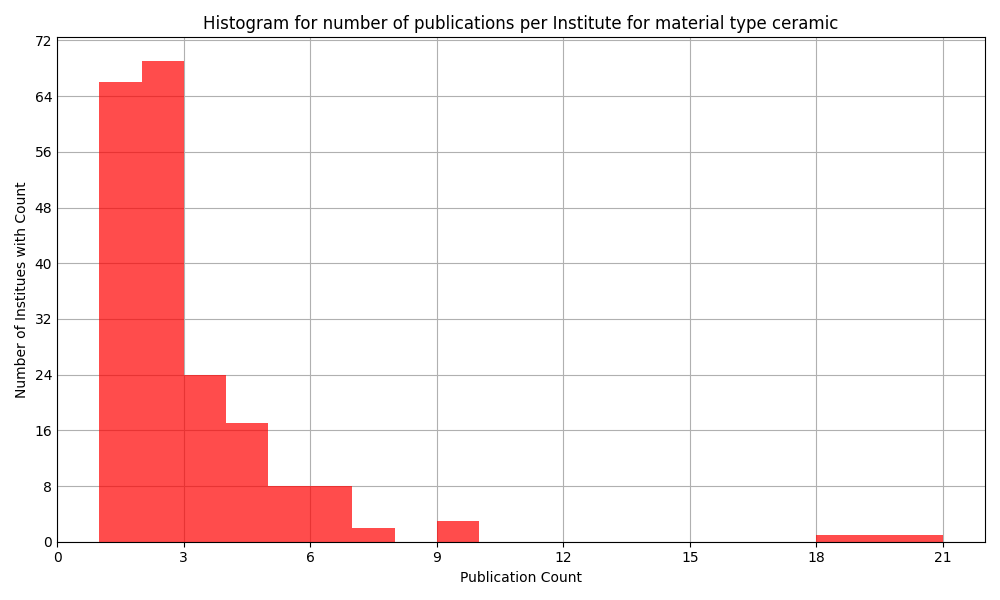
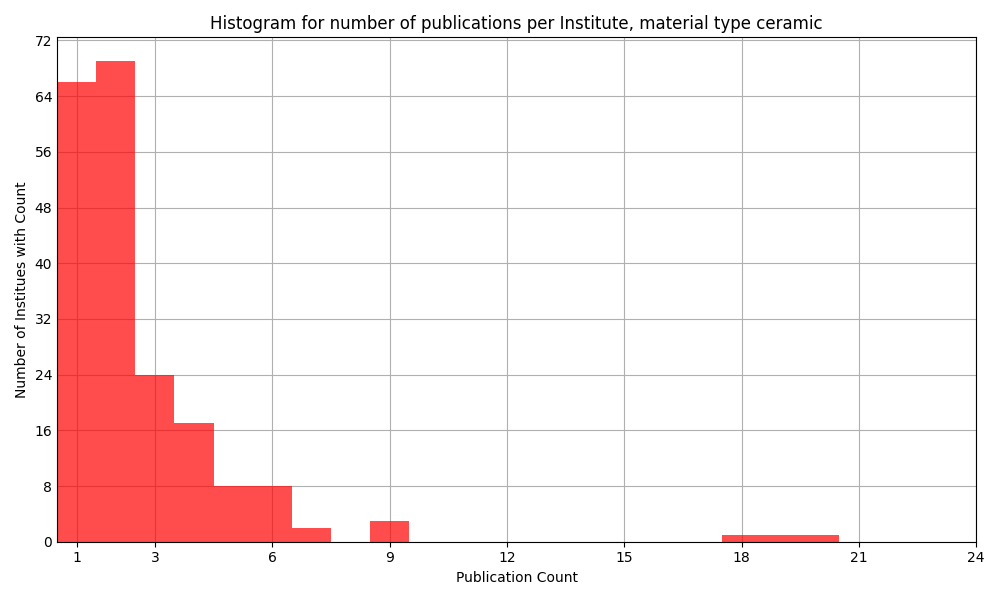
plot adjustments

diff --git a/graph_new.py b/graph_new.py
@@ -6,6 +6,7 @@ from matplotlib.ticker import MultipleLocator
 from matplotlib.lines import Line2D
 import numpy as np
 from matplotlib.ticker import MaxNLocator
+from butterflychart import butterfly_chart
 # Load the data files
 dirname = os.path.dirname(__file__)
 
@@ -42,7 +43,7 @@ for materialstring in materialstrings:
     countries_plot_path = os.path.join(dirname, r'graphs/countries_' + materialstring +'')  # Replace with your local file path
     countries_count_per_population_plot_path = os.path.join(dirname, r'graphs/countries_count_' + materialstring +'_per_population')  # Replace with your local file path
     countries_justnumbers_plot_path = os.path.join(dirname, r'graphs/countries_' + materialstring +'_justnumbers')  # Replace with your local file path
-
+    butterfly_plot_path = os.path.join(dirname, r'graphs/butterfly_' + materialstring) 
 
     # Load the data into DataFrames
     data_affiliations = pd.read_excel(affiliations_file)
@@ -99,7 +100,6 @@ for materialstring in materialstrings:
             populations_filtered.append(int(str(list(data_populations[data_populations["Name"] == name_lookup_dict[country_name]]["Total Population"])[0]).replace('.','')))
         else:
             populations_filtered.append(0)
-            # print(f"Warning: Population data for {country_name} not available, set to 0")
 
     populations_filtered_scalefactor = [1/pop  if pop != 0 else 0 for pop in populations_filtered]
 
@@ -124,9 +124,8 @@ for materialstring in materialstrings:
         available_space_percent = count/max(data_affiliations_filtered['Count']) 
         x = bar.get_x() + 0.01*max(data_affiliations_filtered['Count']) + count
         ax.text(x, y, label, va='center', ha='left', color='Black', fontsize=8, weight='bold', backgroundcolor='none')
-    plt.tight_layout()
- 
     plt.xlim(0, round_up_to_next_50(max(data_affiliations_filtered['Count'])*1.4))
+    plt.tight_layout()
     plt.savefig(affiliations_plot_path)
     plt.close()
     
@@ -151,33 +150,25 @@ for materialstring in materialstrings:
     # Plot affiliations histogram chart just numbers
     #-------------------------------
     plt.figure(figsize=(10, 6))
-    # plt.plot(data_affiliations['Count'], data_affiliations['Affiliations'])
     bins = range(min(data_affiliations['Count']), max(data_affiliations['Count']) + 1, 1)
-    # bins= []
-    # for x in range(10,0,-1):
-    #     bins.append(data_affiliations['Count'][int(len(data_affiliations['Count'])*x/10) - 1])
-    #     unique_bins = set(bins)       # O(n) complexity
-    #     sorted_bins = sorted(unique_bins)
     plt.hist(data_affiliations['Count'], bins=bins, edgecolor='none', color=materialstring_to_color[materialstring], alpha=0.7)
-    # hist, bin_edges, _ = plt.hist(data_affiliations['Count'], bins=bins, edgecolor='black', color='skyblue', alpha=0.7)
-    plt.title(f'Histogram for number of publications per Institute for material type {materialstring}')
+    plt.title(f'Histogram for number of publications per Institute, material type {materialstring}')
     plt.ylabel('Number of Institues with Count')
     plt.xlabel('Publication Count')
-    # bin_midpoints = (bin_edges[:-1] + bin_edges[1:]) / 2
-    # Set x-axis ticks to the bin midpoints
-    # plt.xticks(bin_midpoints, [f'{int(bin_edges[i])}-{int(bin_edges[i+1])}' for i in range(len(bin_edges)-1)])
-
-    # plt.minorticks_on()
     ax = plt.gca()
     ax.grid(which='major', axis='both', linestyle='-')
-    # ax.set_yticklabels([])
     ax.set_axisbelow(True)
     ax.yaxis.set_major_locator(MaxNLocator(integer=True))
     ax.xaxis.set_major_locator(MaxNLocator(integer=True))
     ax.tick_params(axis='y', which='major', color='black', width=1.5, length=0)
     ax.tick_params(axis='y', which='minor', color='black', width=1.5, length=0)
-    # plt.axvline(x=len(data_affiliations_filtered), color='r', linestyle='-')
-    # plt.axvline(x=len(data_affiliations) -len(data_affiliations_filtered_low), color='r', linestyle='-')
+    current_ticks = ax.get_xticks()
+    current_labels = [tick.get_text() for tick in ax.get_xticklabels()]  # Retrieve the current labels
+
+    # Adjust tick positions by adding 0.5
+    new_ticks = [tick + 0.5 for tick in current_ticks]
+    plt.xticks([1.5] + new_ticks, ["1"] + current_labels)
+    ax.set_xlim(1, ax.get_xlim()[1])
     plt.tight_layout()
     plt.savefig(affiliations_histogram_plot_path)
     plt.close()
@@ -194,9 +185,6 @@ for materialstring in materialstrings:
     plt.tight_layout()
     ax = plt.gca()
     ax.grid(which='major', axis='x', linestyle='-')
-    # ax2 = ax.twiny()
-    # ax2.plot(populations_filtered, data_countries_filtered['Countries/Regions'], color ="red")
-    # ax2.set_xlim(ax.get_xlim())
     ax.set_axisbelow(True)
     plt.savefig(countries_plot_path)
     plt.close()
@@ -212,13 +200,28 @@ for materialstring in materialstrings:
     plt.title(f'Countries and Their Populations')
     plt.ylabel('Countries')
     plt.xlabel('Population')
-    plt.tight_layout()
     ax = plt.gca()
     ax.grid(which='major', axis='x', linestyle='-')
     ax.set_axisbelow(True)
     plt.savefig(countries_population_plot_path)
     plt.close()
 
+    #-------------------------------
+    # Plot butterflychart
+    #-------------------------------
+
+    data = pd.DataFrame({
+    'Population': populations_filtered,
+    'Publications devided by Population': scaled_counts
+    }, index=data_countries_filtered['Countries/Regions'])
+    butterfly_chart(
+    data,
+    figsize=(20, 6),
+    wspace=0.25,
+    title=f'Countries Publication Count per Population (Excluding Counts {cutoffs_dict_upper[materialstring]} and Below)'
+    )
+    plt.savefig(butterfly_plot_path)
+    plt.close()
     #-------------------------------
     # Plot countries/regions scaled by population bar chart
     #-------------------------------
@@ -413,6 +416,13 @@ ax.yaxis.set_major_locator(MaxNLocator(integer=True))
 ax.xaxis.set_major_locator(MaxNLocator(integer=True))
 ax.tick_params(axis='y', which='major', color='black', width=1.5, length=0)
 ax.tick_params(axis='y', which='minor', color='black', width=1.5, length=0)
+current_ticks = ax.get_xticks()
+current_labels = [tick.get_text() for tick in ax.get_xticklabels()]  # Retrieve the current labels
+
+# Adjust tick positions by adding 0.5
+new_ticks = [tick + 0.5 for tick in current_ticks]
+plt.xticks([1.5] + new_ticks, ["1"] + current_labels)
+ax.set_xlim(1, ax.get_xlim()[1])
 plt.tight_layout()
 affiliations_histogram_stacked_plot_path = os.path.join(dirname, r'graphs/affiliation_histogram_stacked')
 plt.savefig(affiliations_histogram_stacked_plot_path)

diff --git a/butterflychart.py b/butterflychart.py
@@ -1,0 +1,51 @@
+import matplotlib.ticker as mtick
+import matplotlib.transforms as transforms
+import pandas as pd
+import matplotlib.pyplot as plt
+
+def butterfly_chart(
+        data: pd.DataFrame, 
+        title: str = None,
+        middle_label_offset=0.00,
+        figsize=(5, 2),
+        wspace=0.6
+    ):
+
+    fig, (ax1, ax2) = plt.subplots(
+        figsize=figsize,
+        dpi=100,
+        nrows=1,
+        ncols=2,
+        subplot_kw={'yticks': []},
+        gridspec_kw={'wspace': wspace},
+    )
+    plt.subplots_adjust(left=0.01, right=0.99)
+    # plot the data
+    (l1, x1), (l2,x2) = data.items()
+    y = range(len(x1))
+    labels = data.index.tolist()
+
+    ax1.barh(y=y, width=x1, color='tab:blue', zorder=3)
+    ax1.invert_xaxis()
+    ax1.set_title(l1)
+    ax1.grid(which='major', axis='x', linestyle='-')
+    ax1.set_axisbelow(True)
+    ax2.barh(y=y, width=x2, color='tab:blue', zorder=3)
+    ax2.set_title(l2)
+    ax2.grid(which='major', axis='x', linestyle='-')
+    ax2.set_axisbelow(True)
+    # turn on axes spines on the inside y-axis
+    ax1.spines['right'].set_visible(True)
+    ax2.spines['left'].set_visible(True)
+    
+    # format axes
+    # xfmt = mtick.PercentFormatter(xmax=1, decimals=0)
+    # ax1.xaxis.set_major_formatter(xfmt)
+    # ax2.xaxis.set_major_formatter(xfmt)
+
+    # place center labels
+    transform = transforms.blended_transform_factory(fig.transFigure, ax1.transData)
+    for i, label in enumerate(labels):
+        ax1.text(0.5+middle_label_offset, i, label, ha='center', va='center', transform=transform)
+
+    plt.suptitle(title, y=0.98, fontsize='x-large')
